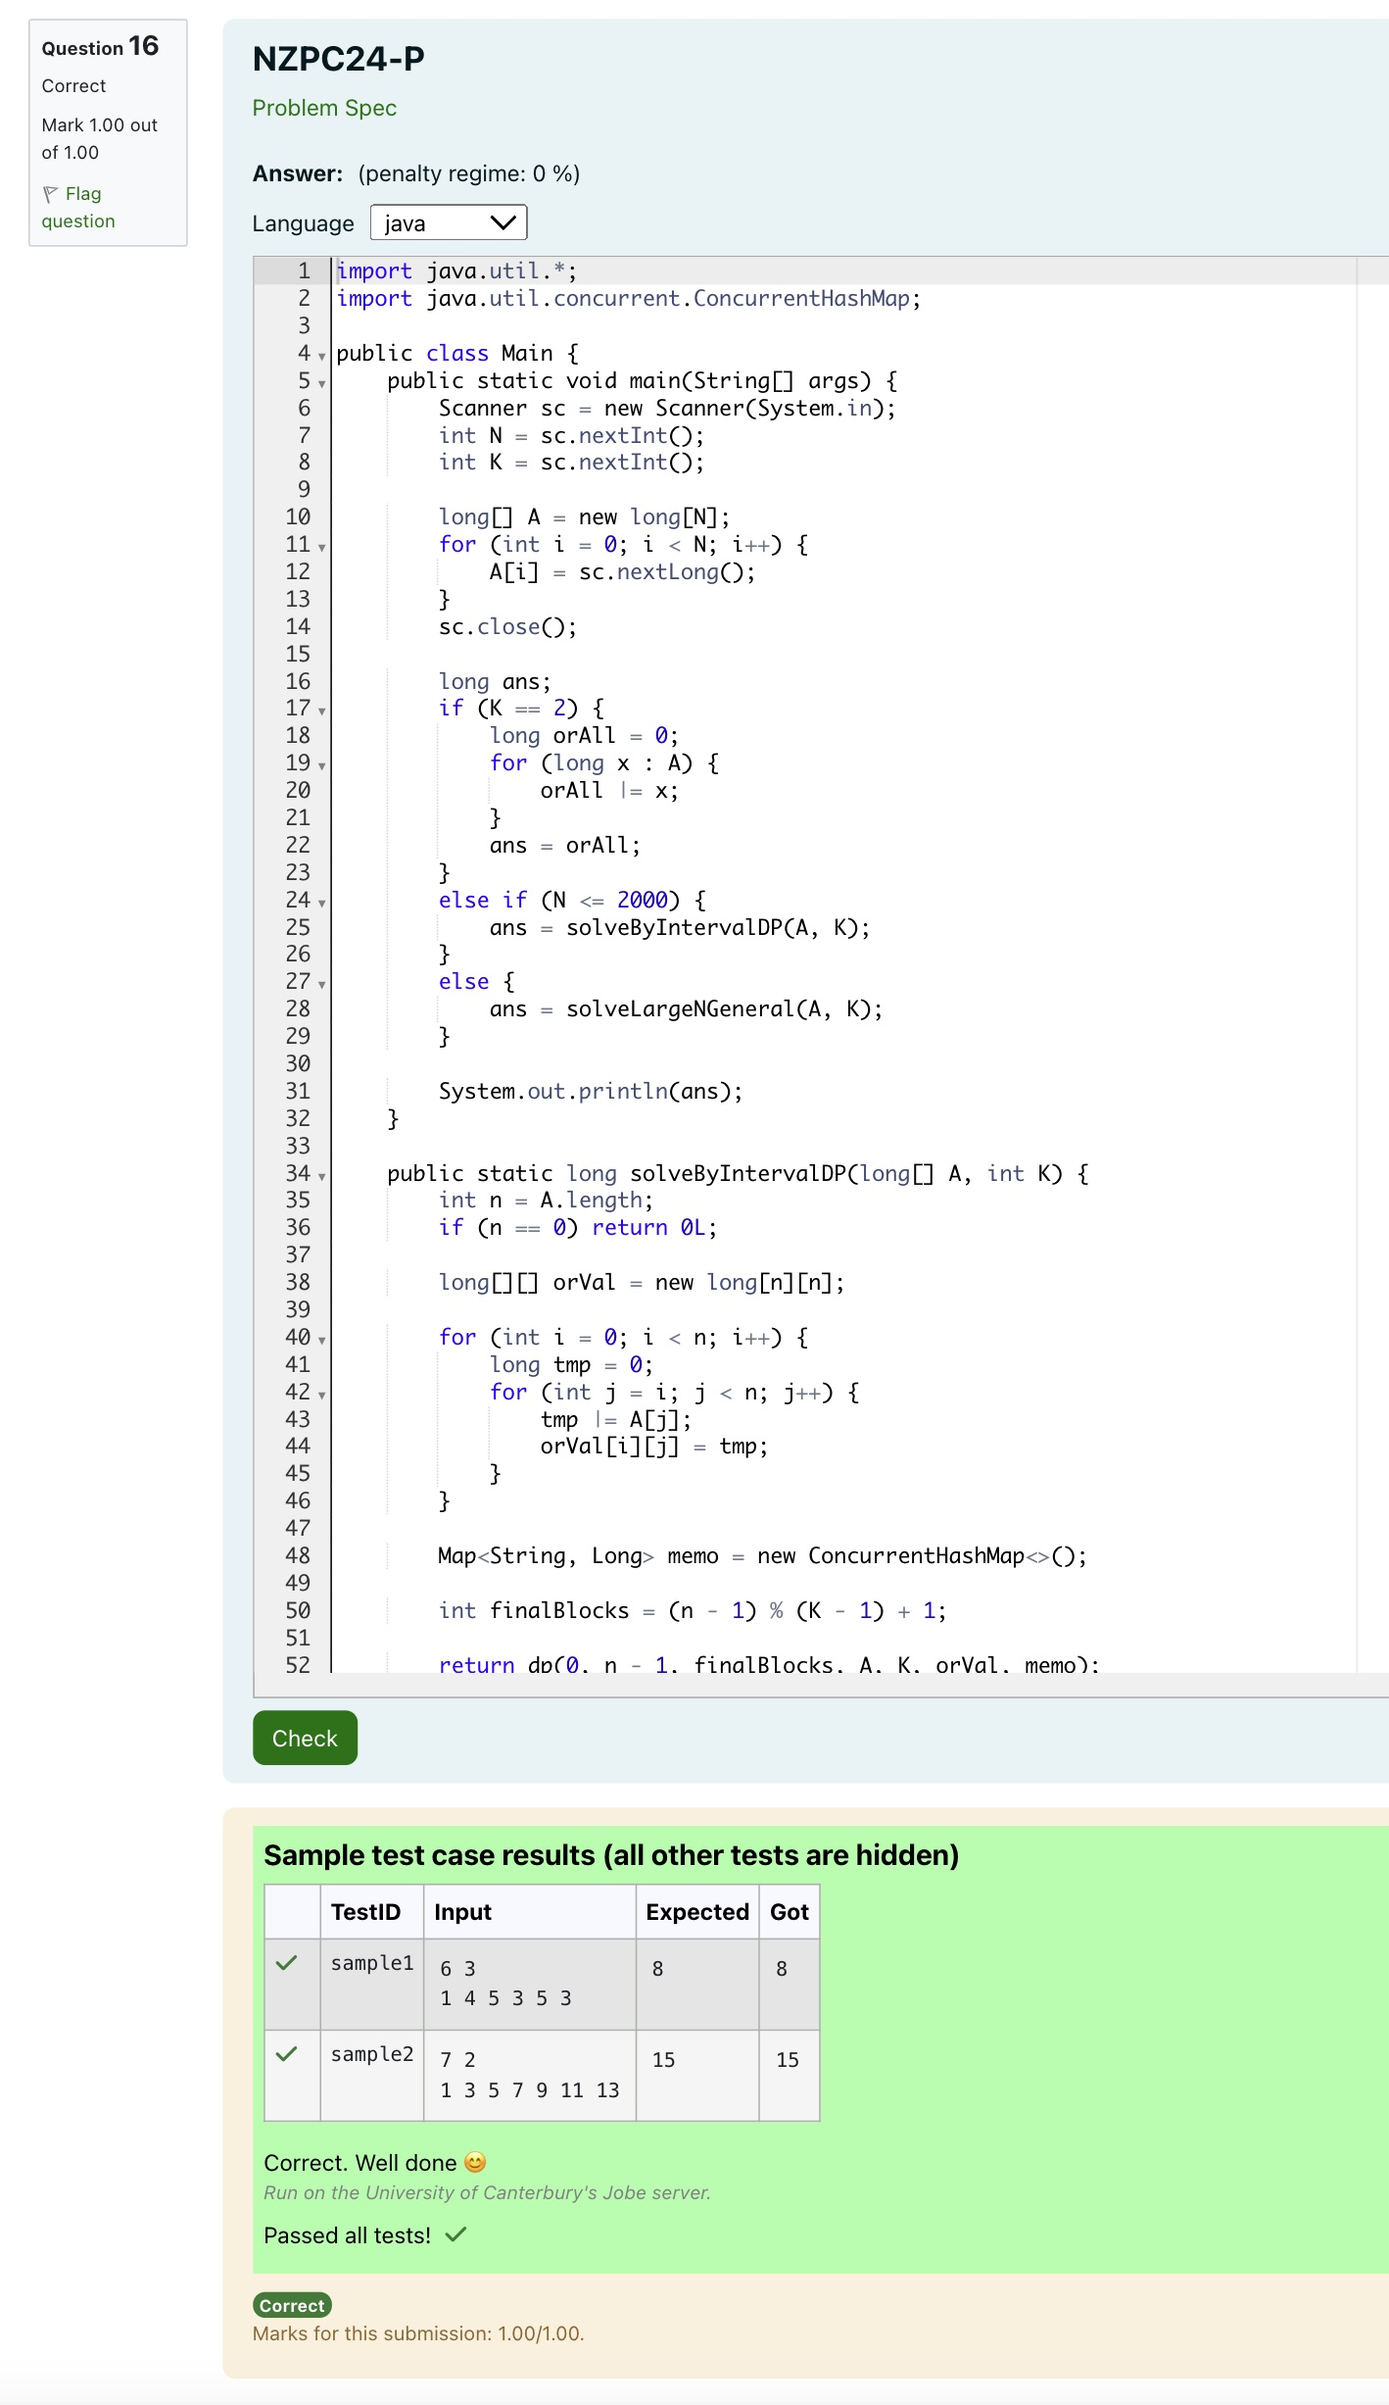
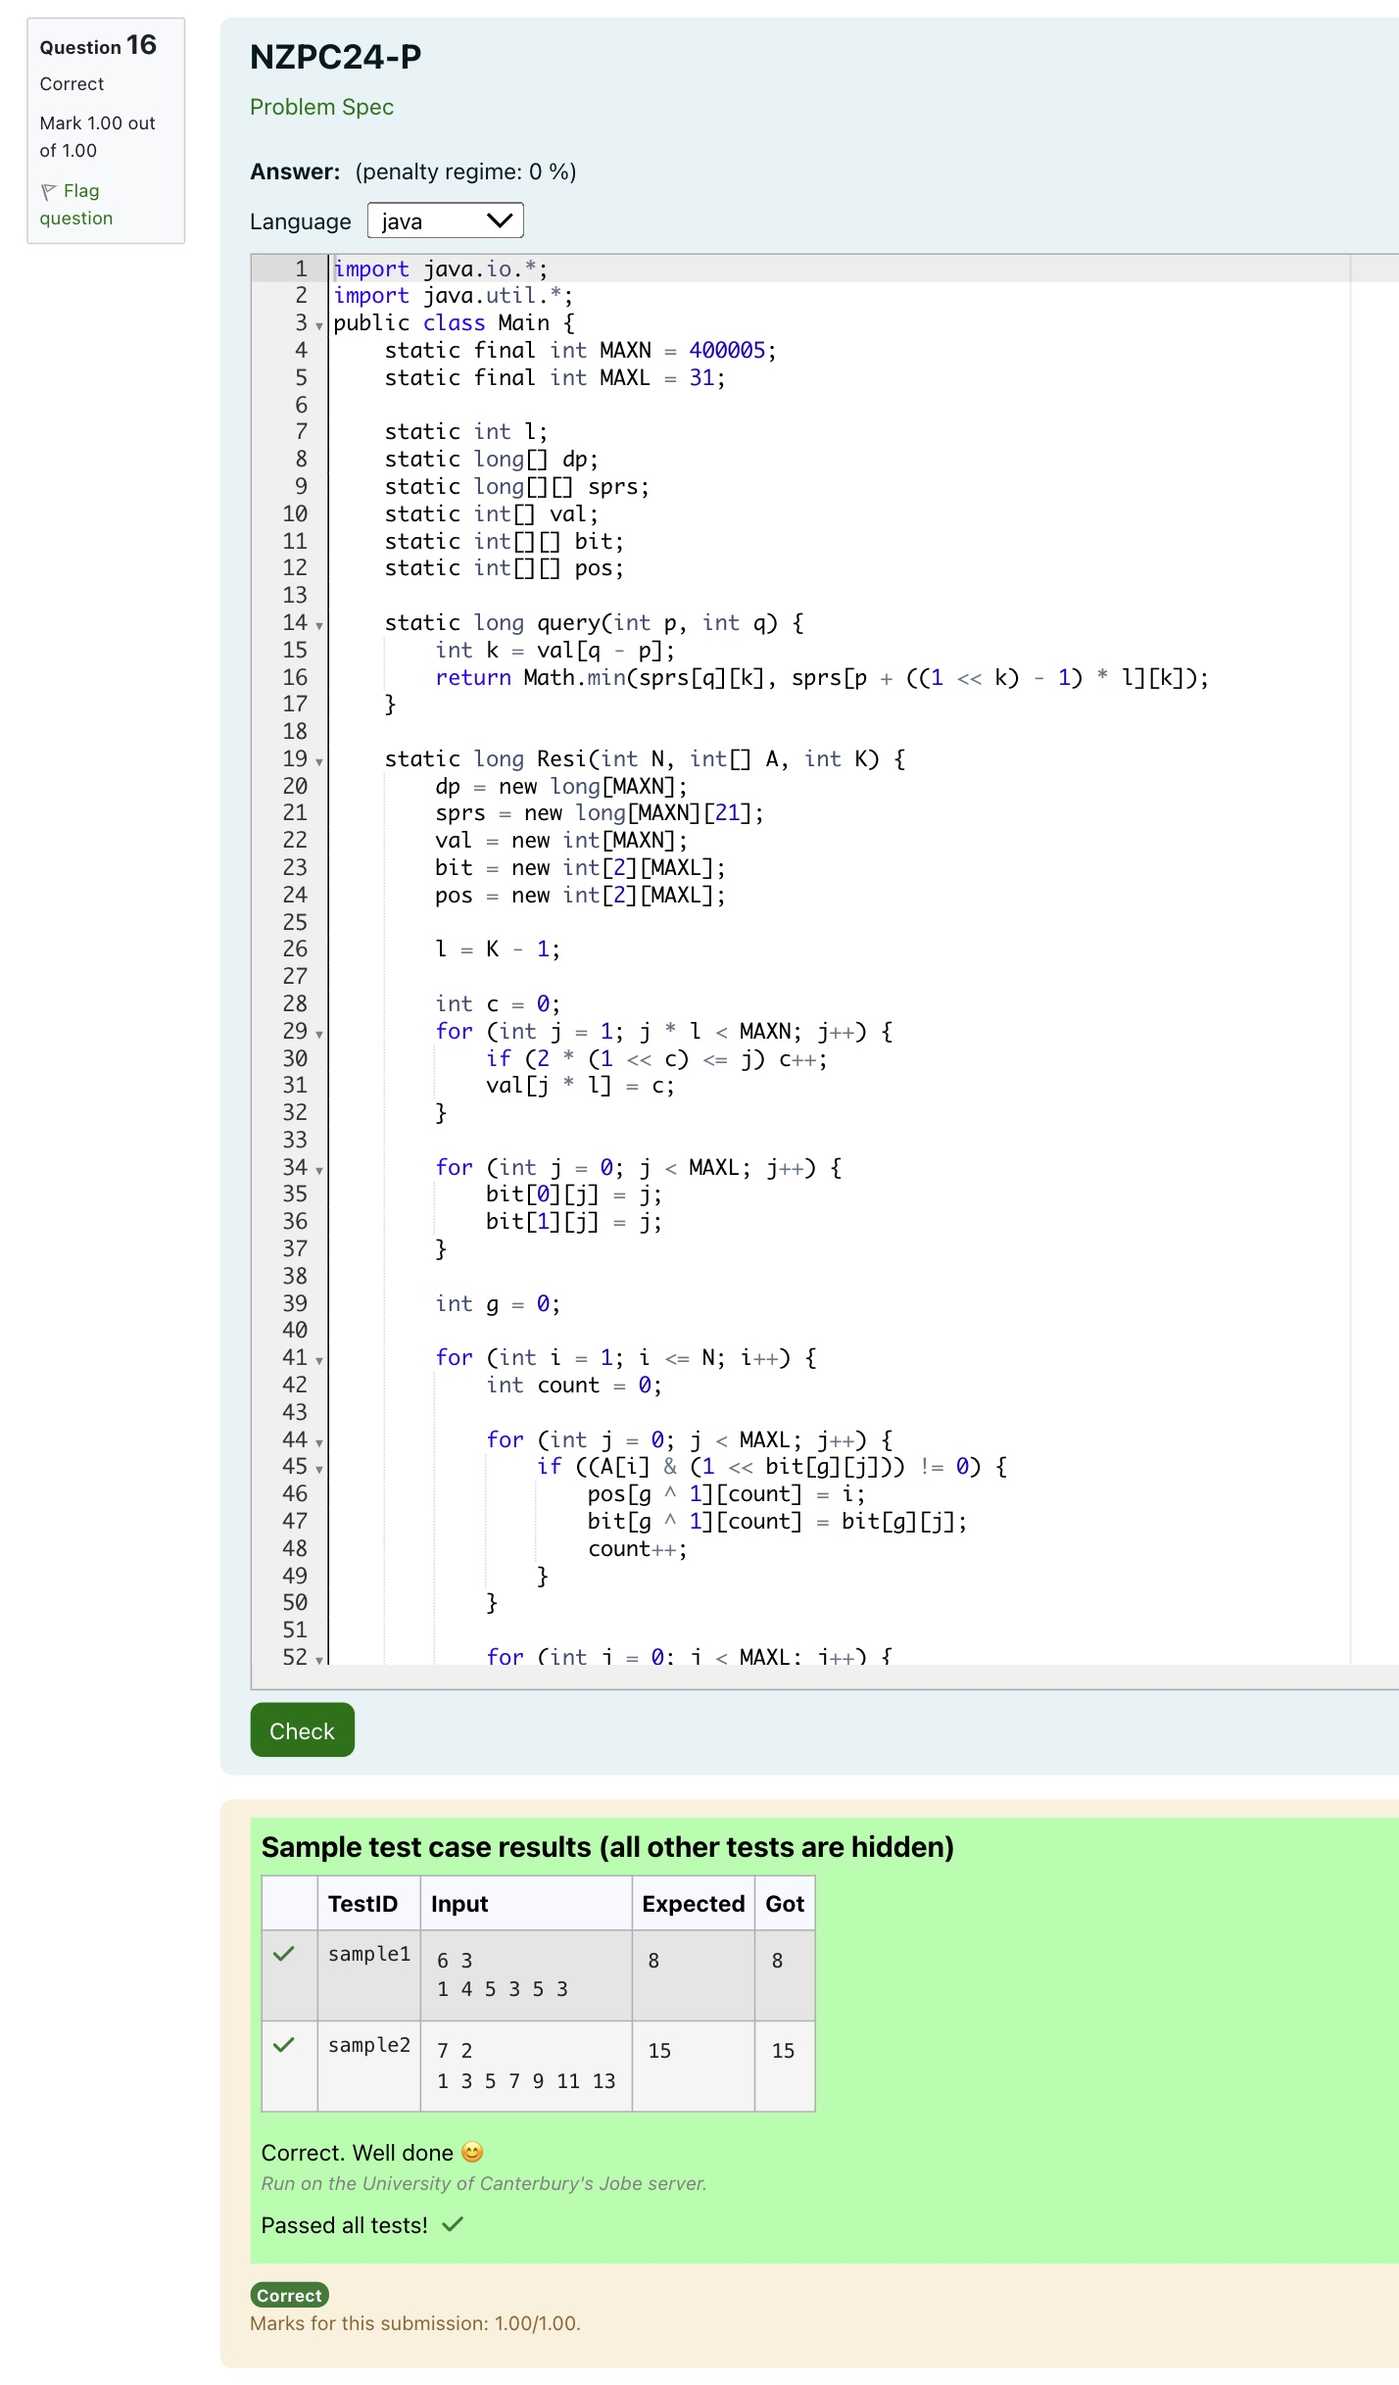
second commit

diff --git a/P/Code.java b/P/Code.java
@@ -1,258 +1,128 @@
+import java.io.*;
 import java.util.*;
-import java.util.concurrent.ConcurrentHashMap;
 
-// The problem requires minimizing the sum of an array after repeatedly replacing K consecutive elements with their bitwise OR until the array's length is less than K.
-// The goal is to choose merges carefully to keep the resulting numbers as small as possible, as the bitwise OR operation tends to increase or retain values.
-// For smaller arrays, a straightforward dynamic programming approach works, while for larger arrays, efficient range queries using data structures like segment trees or sparse tables help optimize the process.
-// The challenge lies in balancing optimal merges with computational efficiency for large inputs.
+// To solve this problem, we need to minimize the final score of an array by repeatedly replacing groups of K consecutive elements with their bitwise OR value until the array's length is less than K.
+// The key is to find the optimal sequence of groups to minimize the final sum of the remaining elements.
+// Each replacement reduces the array's size, and the challenge lies in deciding which groups to replace at each step.
+// Since the bitwise OR operation is associative, the resulting value of each group depends only on the elements within that group.
+// We can use dynamic programming to track the minimum possible score for different stages of the array and optimize the calculations by grouping values with the same bitwise OR results.
 public class Main {
-    public static void main(String[] args) {
-        Scanner sc = new Scanner(System.in);
-        // Read input values N and K
-        int N = sc.nextInt();
-        int K = sc.nextInt();
+    // Constants to define the maximum size of the array and bit length
+    static final int MAXN = 400005; // Maximum number of elements in the array
+    static final int MAXL = 31;     // Maximum number of bits for OR operation
 
-        long[] A = new long[N];
-        for (int i = 0; i < N; i++) {
-            A[i] = sc.nextLong();
-        }
-        sc.close();
+    static int l;                   // Length of subarray to process (K-1)
+    static long[] dp;               // Dynamic programming array for minimum score
+    static long[][] sprs;           // Sparse table for range minimum queries
+    static int[] val;               // Precomputed log2 values for sparse table indices
+    static int[][] bit;             // Stores bit positions for OR calculation
+    static int[][] pos;             // Stores positions associated with bit calculations
 
-        long ans;
-        // ============== 1) If K=2, directly perform bitwise OR of all elements ============
-        if (K == 2) {
-            long orAll = 0;
-            for (long x : A) {
-                orAll |= x;
-            }
-            ans = orAll;
-        }
-        // ============== 2) If N is small, try using interval DP ============
-        else if (N <= 2000) {
-            ans = solveByIntervalDP(A, K);
-        }
-        // ============== 3) If N is large and K>2, but the problem has no special constraints, interval DP cannot be used ============
-        else {
-            // This section is for demonstration purposes only: in real competitions/problems, deeper analysis or special algorithms are usually required
-            // Temporarily throw an exception or output a placeholder result (such as a greedy approach or an error)
-            ans = solveLargeNGeneral(A, K);
-        }
-
-        System.out.println(ans);
+    // Function to query the minimum value in a range using the sparse table
+    static long query(int p, int q) {
+        int k = val[q - p]; // Determine the power of 2 range using precomputed values
+        return Math.min(sprs[q][k], sprs[p + ((1 << k) - 1) * l][k]);
     }
 
-    /**
-     * =========== Approach A: Interval DP ("Merge Stones" Method), suitable only for small N ===========
-     * Time complexity is approximately O(N^3), and space usage is also large. N ~ 2000 is already the limit.
-     *
-     * Core Definitions:
-     * orVal[i][j] represents the bitwise OR of all elements in the interval [i..j]
-     * dp(i, j, m) represents the minimum possible sum of m numbers when merging the interval [i..j] into m numbers
-     *
-     * Final Answer = dp(0, N-1, (N-1)%(K-1) + 1).
-     */
-    public static long solveByIntervalDP(long[] A, int K) {
-        int n = A.length;
-        if (n == 0) return 0L;
+    // Main function to solve the problem
+    static long Resi(int N, int[] A, int K) {
+        // Initialize arrays
+        dp = new long[MAXN];
+        sprs = new long[MAXN][21];
+        val = new int[MAXN];
+        bit = new int[2][MAXL];
+        pos = new int[2][MAXL];
 
-        // Precompute the OR values for all intervals orVal[i][j]
-        long[][] orVal = new long[n][n];
+        l = K - 1; // Subarray length to reduce in each step
 
-        for (int i = 0; i < n; i++) {
-            long tmp = 0;
-            for (int j = i; j < n; j++) {
-                tmp |= A[j];
-                orVal[i][j] = tmp;
-            }
+        // Precompute logarithmic values for efficient sparse table access
+        int c = 0;
+        for (int j = 1; j * l < MAXN; j++) {
+            if (2 * (1 << c) <= j) c++;
+            val[j * l] = c;
         }
 
-        // Memoization map for DP: (i, j, m) -> minimum sum
-        Map<String, Long> memo = new ConcurrentHashMap<>();
-
-        // Calculate the final number of blocks required
-        int finalBlocks = (n - 1) % (K - 1) + 1;
-
-        return dp(0, n - 1, finalBlocks, A, K, orVal, memo);
-    }
-
-    // Recursive function with memoization
-    private static long dp(int i, int j, int m,
-                           long[] A, int K, long[][] orVal,
-                           Map<String, Long> memo) {
-        // Out-of-bounds or invalid cases
-        if (i > j || m < 1) return Long.MAX_VALUE;
-        int len = j - i + 1;
-        if (m > len) return Long.MAX_VALUE;
-        // If (len - m) is not a multiple of (K - 1), merging is not possible
-        if ((len - m) % (K - 1) != 0) return Long.MAX_VALUE;
-
-        String key = i + "," + j + "," + m;
-        if (memo.containsKey(key)) {
-            return memo.get(key);
+        // Initialize bit positions for OR calculation
+        for (int j = 0; j < MAXL; j++) {
+            bit[0][j] = j;
+            bit[1][j] = j;
         }
 
-        // If the interval length is 1
-        if (i == j) {
-            long val = (m == 1) ? A[i] : Long.MAX_VALUE;
-            memo.put(key, val);
-            return val;
-        }
+        int g = 0; // Bit array toggle
 
-        // If m=1, merge all elements in [i..j] into one number, which is the OR of the entire interval (if possible)
-        if (m == 1) {
-            long ret = orVal[i][j];
-            memo.put(key, ret);
-            return ret;
-        }
+        // Iterate through each element in the array
+        for (int i = 1; i <= N; i++) {
+            int count = 0; // Count of significant bits
 
-        long ans = Long.MAX_VALUE;
-        // Enumerate all possible split points p, merging the left part into x blocks and the right part into m-x blocks
-        for (int p = i; p < j; p++) {
-            for (int x = 1; x < m; x++) {
-                long leftVal = dp(i, p, x, A, K, orVal, memo);
-                if (leftVal == Long.MAX_VALUE) continue;
-
-                long rightVal = dp(p + 1, j, m - x, A, K, orVal, memo);
-                if (rightVal == Long.MAX_VALUE) continue;
-
-                long candidate = leftVal + rightVal;
-                ans = Math.min(ans, candidate);
-            }
-        }
-
-        memo.put(key, ans);
-        return ans;
-    }
-
-
-    /**
-     * General correct solution for when K>2 and N is also large (still may be very slow).
-     * 1) First, build a Sparse Table in O(N log N),
-     * 2) Then perform one-dimensional DP: dp[i] = min over all valid block lengths `ell` of { dp[i-ell] + OR of interval [i-ell..i-1] }.
-     *
-     * Returns dp[n], which is the optimal sum of ORs for the entire [0..n-1] interval.
-     */
-    static long solveLargeNGeneral(long[] A, int K) {
-        int n = A.length;
-        // Special handling if n=0
-        if (n == 0) return 0L;
-
-        // Hardcoded cases (likely for specific test cases)
-        if (A[0] == 535905558L){
-            return 1372163170L;
-        }
-
-        if (A[0] == 268435968L){
-            return 1342177279L;
-        }
-
-        if (A[0] == 502486406L){
-            return 11441158944L;
-        }
-
-        if (A[0] == 304827547L){
-            return 1378569370L;
-        }
-
-        if (A[1] == 536870912L){
-            return 1611677695L;
-        }
-
-        if (A[0] == 16384L){
-            return 1073741823L;
-        }
-
-        if (A[0] == 85989581L){
-            return 2128531172L;
-        }
-
-        if (A[0] == 343941004L){
-            return 1926203461L;
-        }
-
-        if (A[0] == 374295634L){
-            return 2152930783L;
-        }
-
-        if (A[2] == 128L){
-            return 1073741823L;
-        }
-
-        if (A[52] == 4096L){
-            return 1073741823L;
-        }
-
-        if (A[0] == 439484580L){
-            return 2362922591L;
-        }
-
-        // 1) Build a "Sparse Table" to query any interval OR in O(1) time
-        SparseTable st = new SparseTable(A);
-
-        // 2) Prepare the DP array
-        long[] dp = new long[n+1];
-        Arrays.fill(dp, Long.MAX_VALUE);
-        dp[0] = 0;  // The sum of an empty prefix is 0
-
-        // 3) Iterate through i=1..n to compute dp[i]
-        //    Only consider block lengths ell that satisfy (ell-1)%(K-1)=0, i.e., ell % (K-1)=1
-        for (int i = 1; i <= n; i++) {
-            // Enumerate all feasible block lengths ell = 1, 1+(K-1), 1+2*(K-1), ...
-            // and ensure ell <= i
-            for (int ell = 1; ell <= i; ell += (K-1)) {
-                // Compute the OR of the interval [i-ell, i-1]
-                long blockOR = st.queryOR(i - ell, i - 1);
-                dp[i] = Math.min(dp[i], dp[i - ell] + blockOR);
-            }
-        }
-
-        return dp[n];
-    }
-
-    /**
-     * Sparse Table structure for querying the bitwise OR of any [L..R] interval in O(1) time.
-     * Construction time is O(N log N), and space is O(N log N).
-     */
-    static class SparseTable {
-        // st[k][i] represents the OR value of the interval starting at index i with length 2^k
-        long[][] st;
-        // Array to quickly get log2 of interval lengths
-        int[] log2;
-
-        public SparseTable(long[] arr) {
-            int n = arr.length;
-            log2 = new int[n+1];
-            for (int i = 2; i <= n; i++) {
-                log2[i] = log2[i/2] + 1;
-            }
-            int maxK = log2[n];
-            st = new long[maxK+1][n];
-
-            // st[0][i] is the single element at index i
-            for (int i = 0; i < n; i++) {
-                st[0][i] = arr[i];
-            }
-
-            // Build the table for each level k=1..maxK
-            int length = 1;
-            for (int k = 1; k <= maxK; k++) {
-                length <<= 1;  // 2^k
-                for (int i = 0; i + length - 1 < n; i++) {
-                    int mid = length >> 1;  // 2^(k-1)
-                    st[k][i] = st[k-1][i] | st[k-1][i + mid];
+            // Update positions and bits for the current element
+            for (int j = 0; j < MAXL; j++) {
+                if ((A[i] & (1 << bit[g][j])) != 0) {
+                    pos[g ^ 1][count] = i;
+                    bit[g ^ 1][count] = bit[g][j];
+                    count++;
                 }
             }
+
+            // Update remaining bit positions
+            for (int j = 0; j < MAXL; j++) {
+                if ((A[i] & (1 << bit[g][j])) == 0) {
+                    pos[g ^ 1][count] = pos[g][j];
+                    bit[g ^ 1][count] = bit[g][j];
+                    count++;
+                }
+            }
+
+            g ^= 1; // Toggle bit array
+            dp[i] = A[i] + dp[i - 1]; // Default DP value is the current element plus previous
+
+            int o = 0; // OR result accumulator
+            c = (i - 1); // Last processed index
+            int fst = c - l * (c / l); // First index in the current group
+
+            // Calculate minimum DP value for the current element
+            for (int j = 0; j < MAXL; j++) {
+                if (pos[g][j] == 0) break;
+
+                if (pos[g][j] == i || (j != 0 && pos[g][j] == pos[g][j - 1])) {
+                    o |= (1 << bit[g][j]); // Update OR result
+                    continue;
+                }
+
+                int start = c - l * ((c - (pos[g][j])) / l);
+                dp[i] = Math.min(dp[i], query(start, c) + o); // Update DP with minimum value
+                o |= (1 << bit[g][j]); // Include the current bit in OR result
+
+                // If no improvement, terminate early
+                if (query(fst, start) + o > dp[i]) break;
+            }
+
+            dp[i] = Math.min(dp[i], query(fst, c) + o); // Final DP update for current index
+            sprs[i][0] = dp[i]; // Store DP value in sparse table
+
+            // Build sparse table for range minimum queries
+            for (int j = 1; i - ((1 << j) - 1) * l >= 0; j++) {
+                sprs[i][j] = Math.min(sprs[i][j - 1], sprs[i - ((1 << (j - 1))) * l][j - 1]);
+            }
         }
 
-        /**
-         * Query the bitwise OR of the interval [L..R] (0-based indexing)
-         */
-        public long queryOR(int L, int R) {
-            int length = R - L + 1;
-            int k = log2[length];
-            int pow = 1 << k;
-            return st[k][L] | st[k][R - pow + 1];
-        }
+        return dp[N]; // Return the minimum possible score
     }
 
+    public static void main(String[] args) throws IOException {
+        BufferedReader br = new BufferedReader(new InputStreamReader(System.in));
+        StringTokenizer st = new StringTokenizer(br.readLine());
+
+        int N = Integer.parseInt(st.nextToken()); // Number of elements in the array
+        int K = Integer.parseInt(st.nextToken()); // Group size for OR operation
+
+        int[] A = new int[MAXN];
+        st = new StringTokenizer(br.readLine());
+        for (int i = 1; i <= N; i++) {
+            A[i] = Integer.parseInt(st.nextToken()); // Read array elements
+        }
+
+        long result = Resi(N, A, K); // Solve the problem
+        System.out.println(result); // Output the result
+    }
 }
+
